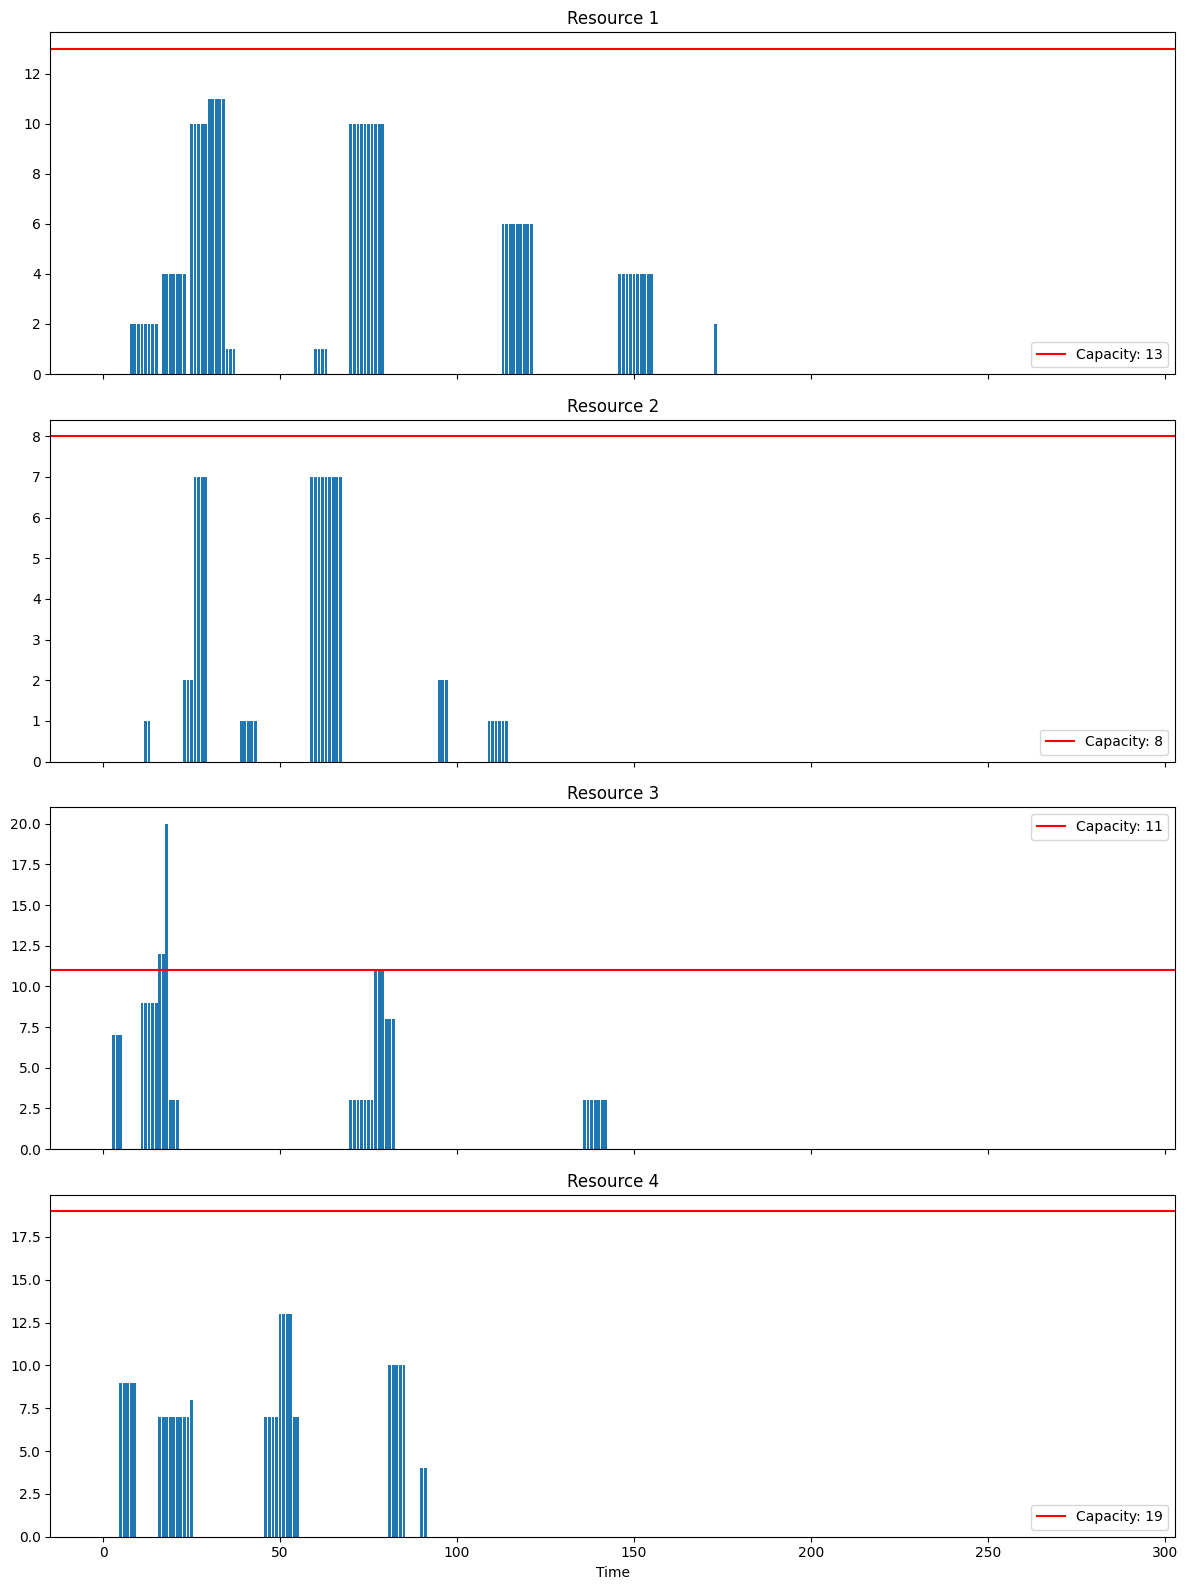
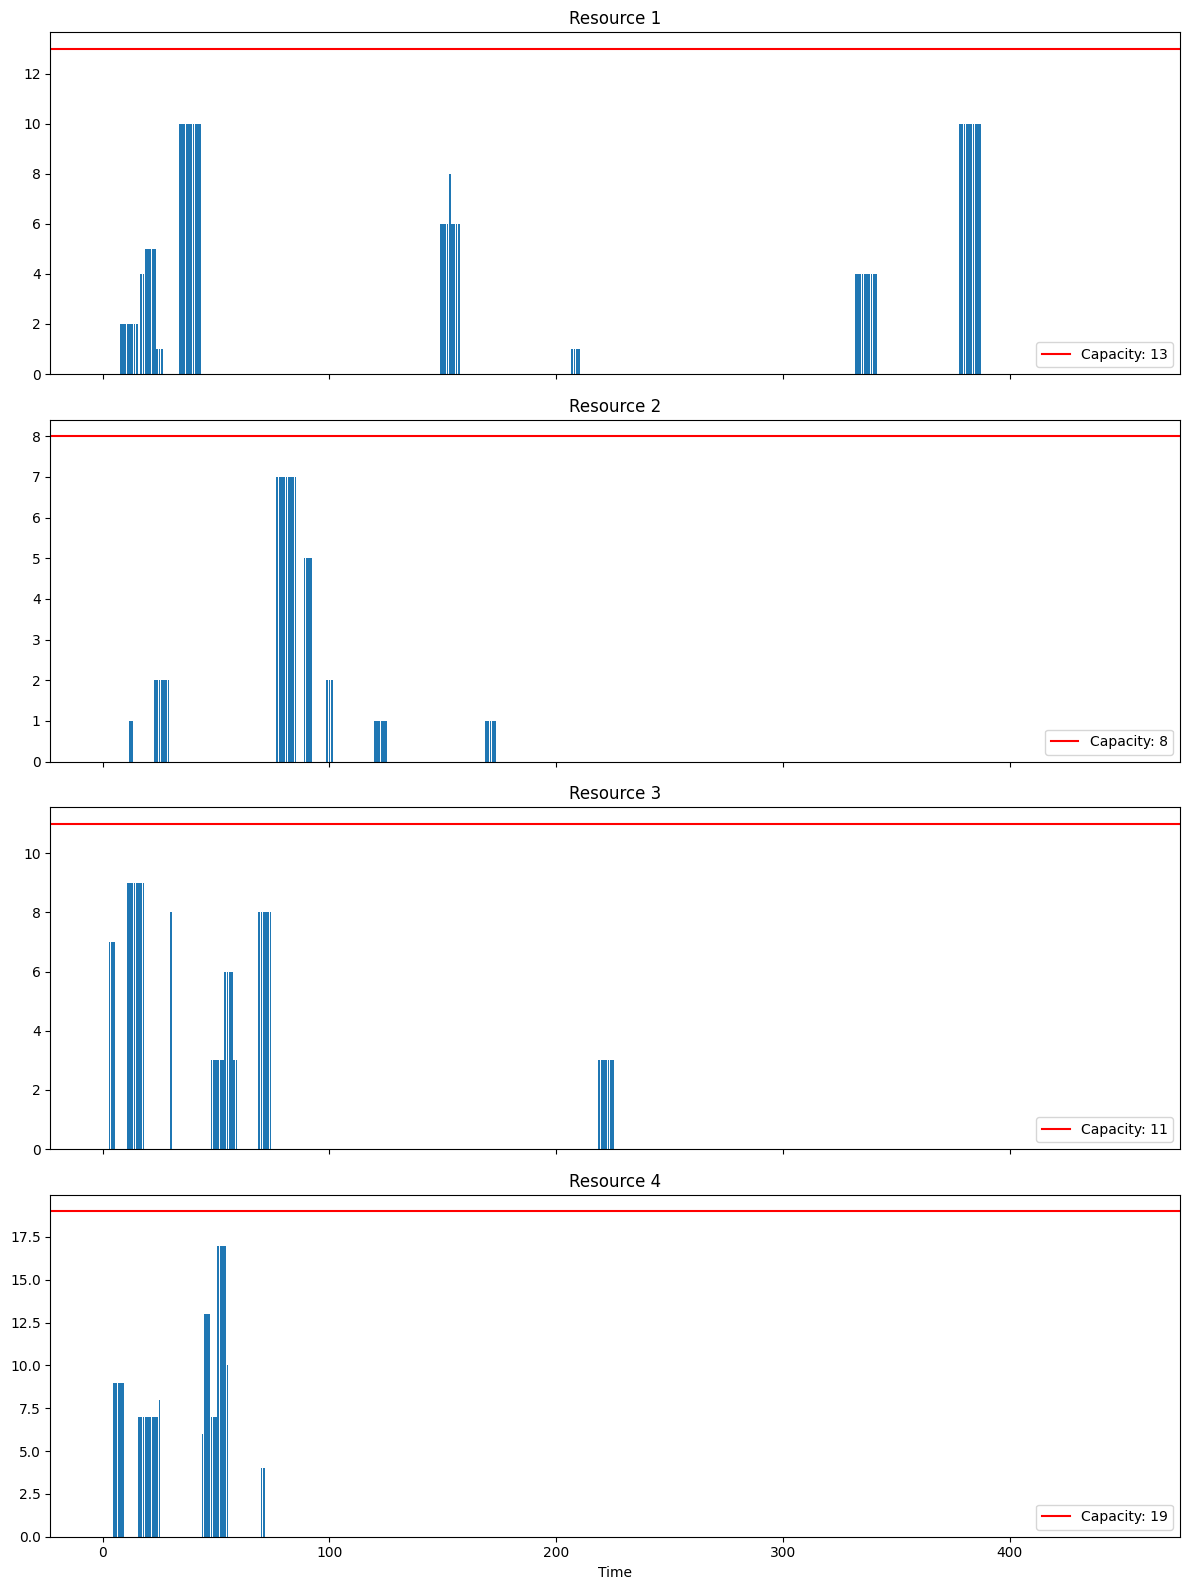
solve start time problem

diff --git a/Devoir3/solver_genetic.py b/Devoir3/solver_genetic.py
@@ -21,15 +21,15 @@ def solve(rcpsp: RCPSP) -> List[int]:
             as the tour starts from the depot
     """
 
-    time_limit = 10  # 20 * 60
+    time_limit = 5 * 60  # 20 * 60
 
-    mutation_rate = 0.01
-    pop_size = 20
-    tournament_size = ceil(pop_size / 2)
-    tournament_accepted = ceil(tournament_size / 2)
-    num_generations = 200
-    no_progress_generations = 100
-    elite_size = 10
+    mutation_rate = 0.005
+    pop_size = 30
+    tournament_size = 10
+    tournament_accepted = 5
+    num_generations = 100
+    no_progress_generations = 20
+    elite_size = 2
 
     return genetic_algorithm(
         rcpsp,
@@ -73,6 +73,9 @@ def genetic_algorithm(
             ]
 
             # The parents selected for the next generation are the whole population
+            population = sorted(population, key=lambda s: fitness(r, s), reverse=True)[
+                : pop_size // 2
+            ]
 
             # Create the offspring for the next generation
             offspring = []
@@ -103,7 +106,7 @@ def genetic_algorithm(
             id_fittest = np.argmax(fitness_scores)
             fittest_solution = population[id_fittest]
             fittest_score = fitness_scores[id_fittest]
-
+            # print(fittest_solution)
             print("Conflicts : ", max(0, -floor(fittest_score)))
             if fittest_score > best_fitness:
                 best_solution = fittest_solution
@@ -210,6 +213,8 @@ def generate_chromosome(r: RCPSP):
     for task in tasks:
         solution[task] = random.choice([i for i in range(0, horizon + 1)])
 
+    set_start_time_zero(r, solution)
+
     return solution
 
 
@@ -247,6 +252,8 @@ def generate_fit_chromosome(r):
         for successor in r.graph.successors(job_id):
             weight = r.graph.edges[job_id, successor].get("weight", 0)
             available_start_times[successor].append(start_time + weight)
+
+    set_start_time_zero(r, solution)
 
     return solution
 
@@ -317,3 +324,13 @@ def selection(r: RCPSP, population, pop_size, tournament_size, tournament_accept
             ]
         )
     return selected
+
+
+def set_start_time_zero(r: RCPSP, solution):
+    min_start_time = min([solution[job] for job in r.graph.nodes])
+    if min_start_time > 0:
+        key = [k for k, v in solution.items() if v == min_start_time][0]
+        solution[key] = 0
+        return solution
+    else:
+        return solution

diff --git a/Devoir3/hyperparameter_tuner.py b/Devoir3/hyperparameter_tuner.py
@@ -24,8 +24,8 @@ def solve(rcpsp: RCPSP) -> List[int]:
     pop_sizes = [20 * i for i in range(1, 6)]
     tournament_sizes = [10 * i for i in range(1, 6)]
     tournament_accepted_sizes = [5 * i for i in range(1, 6)]
-    
-    time_limit = 10  # 20 * 60
+
+    time_limit = 20 * 60  # 20 * 60
 
     mutation_rate = 0.01
     pop_size = 20
@@ -108,7 +108,7 @@ def genetic_algorithm(
             fittest_solution = population[id_fittest]
             fittest_score = fitness_scores[id_fittest]
 
-            print("Conflicts : ", max(0, -floor(fittest_score)))
+            # print("Conflicts : ", max(0, -floor(fittest_score)))
             if fittest_score > best_fitness:
                 best_solution = fittest_solution
                 best_fitness = fittest_score
